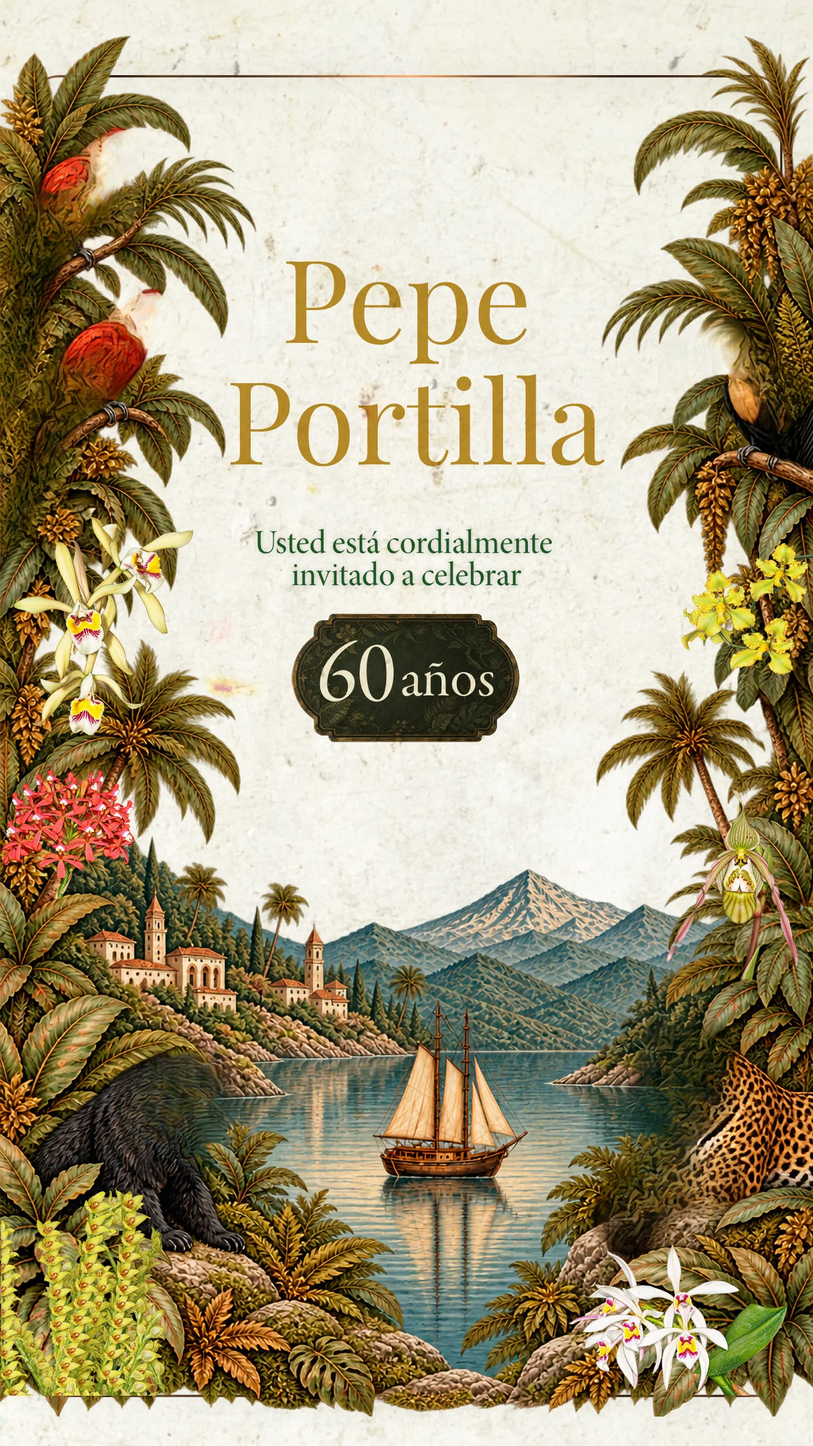
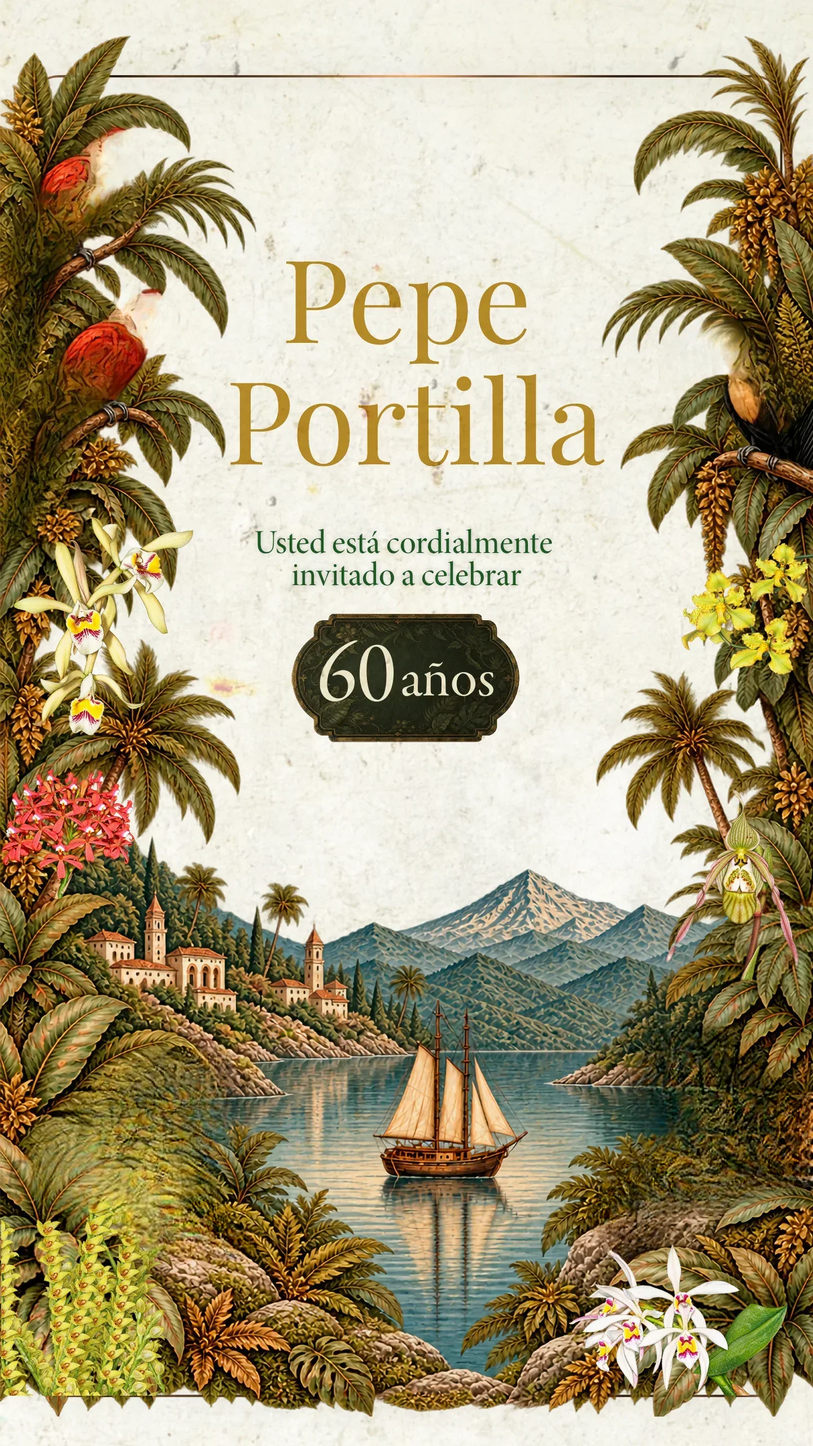
Add files via upload

Changed region(s): [[0.7188, 0.6875, 1.0, 0.875], [0.0312, 0.7188, 0.3125, 0.875]]

diff --git a/js/videoanimales.js b/js/videoanimales.js
@@ -1,0 +1,96 @@
+/* =====================================================================
+   OSO Y JAGUAR QUE CAMINAN
+   Cuadros de animación (sacados de un video, con fondo transparente)
+   guardados en hojas de 10 cuadros en img/anim/mov/. Se dibujan en un
+   lienzo sobre la portada: el oso sale caminando por la izquierda y se
+   echa; el jaguar entra por la derecha y se recuesta. Después quedan
+   respirando suavemente. Ajustes en js/movimiento.js.
+   ===================================================================== */
+(function () {
+  var CFG = window.MOVIMIENTO || {};
+  var reducido = window.UTIL && window.UTIL.reducido();
+  var PW = 1440, PH = 2560;                     /* tamaño de la página en el diseño */
+  var DPR = Math.min(window.devicePixelRatio || 1, 2);
+  var ORDEN = ["oso", "jaguar"];
+
+  function ease(t) { t = Math.max(0, Math.min(1, t)); return 1 - Math.pow(1 - t, 3); }
+
+  /* ---------- carga de las hojas de cuadros ---------- */
+  var hojas = {}, listos = 0, total = 0, alListo = [];
+  function cargar() {
+    ORDEN.forEach(function (k) {
+      var c = CFG[k]; if (!c) return;
+      hojas[k] = c.sheets.map(function (f) {
+        total++;
+        var im = new Image(); im.decoding = "async";
+        im.onload = im.onerror = function () { listos++; if (listos === total) alListo.splice(0).forEach(function (f) { f(); }); };
+        im.src = "img/anim/mov/" + f;
+        return im;
+      });
+    });
+  }
+  function cuandoListo(f) { if (total && listos === total) f(); else alListo.push(f); }
+
+  /* ---------- un animal ---------- */
+  function posicion(k, i) {
+    /* dónde va (en px de página) la caja del cuadro i, incluido el desplazamiento de entrada */
+    var c = CFG[k], s = c.esc;
+    var x = c.pagina[0] + (c.caja[0] - c.ancla[0]) * s;
+    var y = c.pagina[1] + (c.caja[1] - c.ancla[1]) * s;
+    var u = ease(i / c.entrada.hasta);
+    x += c.entrada.dx * (1 - u);
+    return { x: x, y: y, w: (c.caja[2] - c.caja[0]) * s, h: (c.caja[3] - c.caja[1]) * s };
+  }
+
+  function Escena(canvas) {
+    this.c = canvas; this.ctx = canvas.getContext("2d"); this.t0 = 0; this.activa = false; this.raf = 0;
+  }
+  Escena.prototype.ajustar = function () {
+    var r = this.c.getBoundingClientRect();
+    var w = Math.max(1, Math.round(r.width * DPR)), h = Math.max(1, Math.round(r.height * DPR));
+    if (this.c.width !== w || this.c.height !== h) { this.c.width = w; this.c.height = h; }
+    this.k = w / PW;                            /* px de lienzo por px de página */
+  };
+  Escena.prototype.dibujar = function (ahora) {
+    var ctx = this.ctx, t = (ahora - this.t0) / 1000, k = this.k;
+    ctx.clearRect(0, 0, this.c.width, this.c.height);
+    ctx.imageSmoothingEnabled = true; ctx.imageSmoothingQuality = "high";
+    for (var n = 0; n < ORDEN.length; n++) {
+      var nombre = ORDEN[n], c = CFG[nombre]; if (!c || !hojas[nombre]) continue;
+      var tt = t - c.retardo; if (tt < 0 && !reducido) continue;
+      var i = reducido ? c.n - 1 : Math.min(c.n - 1, Math.floor(tt * c.fps));
+      var hoja = hojas[nombre][Math.floor(i / c.per)], j = i % c.per;
+      if (!hoja || !hoja.complete || !hoja.naturalWidth) continue;
+      var p = posicion(nombre, i);
+      /* al terminar de caminar, respira (el pecho sube y baja apenas) */
+      var fin = (tt * c.fps) - (c.n - 1), resp = fin > 0 ? 1 + 0.008 * Math.sin(fin / c.fps * 2 * Math.PI / 3.2) * Math.min(1, fin / c.fps) : 1;
+      var h = p.h * resp;
+      ctx.drawImage(hoja, 0, j * c.h, c.w, c.h, p.x * k, (p.y + p.h - h) * k, p.w * k, h * k);
+    }
+  };
+  Escena.prototype.bucle = function () {
+    var self = this;
+    function f(ahora) { if (!self.activa) return; self.dibujar(ahora); self.raf = requestAnimationFrame(f); }
+    this.raf = requestAnimationFrame(f);
+  };
+  Escena.prototype.empezar = function () {
+    var self = this;
+    this.ajustar(); this.activa = true;
+    cuandoListo(function () { if (!self.activa) return; self.t0 = performance.now(); cancelAnimationFrame(self.raf); self.bucle(); });
+  };
+  Escena.prototype.parar = function () {
+    this.activa = false; cancelAnimationFrame(this.raf);
+  };
+
+  var escenas = [];
+  Array.prototype.forEach.call(document.querySelectorAll("canvas.caminan"), function (c) {
+    var e = new Escena(c); c._mov = e; escenas.push(e);
+  });
+  window.addEventListener("resize", function () { escenas.forEach(function (e) { e.ajustar(); }); });
+  cargar();
+
+  window.CAMINAN = {
+    entrar: function (hoja) { var c = hoja.querySelector("canvas.caminan"); if (c && c._mov) c._mov.empezar(); },
+    salir: function (hoja) { var c = hoja.querySelector("canvas.caminan"); if (c && c._mov) setTimeout(function () { c._mov.parar(); }, 650); }
+  };
+})();

diff --git a/js/animales.js b/js/animales.js
@@ -253,9 +253,8 @@
     selva: [
       { malla: "guac1", mover: guacamayo({ retardo: .2, semilla: 0.4 }) },
       { malla: "guac2", mover: guacamayo({ retardo: .7, semilla: 1.9 }) },
-      { malla: "tucan", mover: tucanPosado({ retardo: .5, semilla: 2.7, dir: 1 }) },
-      { malla: "oso", mover: oso },
-      { malla: "jaguar", mover: jaguar }
+      { malla: "tucan", mover: tucanPosado({ retardo: .5, semilla: 2.7, dir: 1 }) }
+      /* el oso y el jaguar caminan con cuadros de animación: js/videoanimales.js */
     ],
     aves: [
       { malla: "colibri", mover: colibri },
@@ -293,12 +292,14 @@
   /* API usada por index.js */
   window.ANIMALES = {
     entrar: function (hoja) {
+      if (window.CAMINAN) CAMINAN.entrar(hoja);
       var c = hoja.querySelector("canvas.selva"); if (!c || !c._escena || !c._escena.gl) return;
       var e = c._escena; e.ajustar(); e.activa = true; e.t0 = performance.now();
       e.animales.forEach(function (a) { a.fase = reducido ? "reposo" : "entra"; a.tFase = 0; });
       arrancar();
     },
     salir: function (hoja) {
+      if (window.CAMINAN) CAMINAN.salir(hoja);
       var c = hoja.querySelector("canvas.selva"); if (!c || !c._escena || !c._escena.gl) return;
       var e = c._escena;
       setTimeout(function () { e.activa = false; e.animales.forEach(function (a) { a.fase = "fuera"; }); }, 700);

diff --git a/index.html b/index.html
@@ -39,6 +39,7 @@
       <img class="base" src="img/03_portada.webp" width="1440" height="2560"
            alt="Pepe Portilla. Usted está cordialmente invitado a celebrar 60 años.">
       <canvas class="selva" data-escena="selva" aria-hidden="true"></canvas>
+      <canvas class="caminan" aria-hidden="true"></canvas>
       <img class="frente" src="img/anim/p03_frente.webp" alt="" decoding="async" style="left:4.722%;top:82.305%;width:72.986%;height:5.859%">
     </section>
 
@@ -153,6 +154,8 @@
   <script src="js/details.js"></script>
   <script src="js/mallas.js"></script>
   <script src="js/animales.js"></script>
+  <script src="js/movimiento.js"></script>
+  <script src="js/videoanimales.js"></script>
   <script src="js/index.js"></script>
 </body>
 </html>

diff --git a/js/movimiento.js b/js/movimiento.js
@@ -1,0 +1,1 @@
+window.MOVIMIENTO={"oso": {"sheets": ["oso_00.webp", "oso_01.webp", "oso_02.webp", "oso_03.webp", "oso_04.webp", "oso_05.webp", "oso_06.webp", "oso_07.webp", "oso_08.webp", "oso_09.webp"], "n": 100, "per": 10, "w": 507, "h": 332, "fps": 24, "retardo": 0.3, "caja": [87, 199, 684, 589], "esc": 1.0, "ancla": [89, 586], "pagina": [-135, 2200], "entrada": {"hasta": 15, "dx": -180}}, "jaguar": {"sheets": ["jaguar_00.webp", "jaguar_01.webp", "jaguar_02.webp", "jaguar_03.webp", "jaguar_04.webp"], "n": 41, "per": 10, "w": 544, "h": 293, "fps": 18, "retardo": 0.9, "caja": [640, 221, 1280, 566], "esc": 1.0, "ancla": [708, 565], "pagina": [980, 2160], "entrada": {"hasta": 20, "dx": 560}}};

diff --git a/css/styles.css b/css/styles.css
@@ -149,6 +149,7 @@ a, button { touch-action: manipulation; }
    ============================================================ */
 canvas.selva { position: absolute; inset: 0; width: 100%; height: 100%; z-index: 3; pointer-events: none; }
 canvas.selva.sin-webgl { display: none; }
+canvas.caminan { position: absolute; inset: 0; width: 100%; height: 100%; z-index: 3; pointer-events: none; }
 .frente { position: absolute; z-index: 4; height: auto; pointer-events: none; }
 
 /* Estrella de la agenda: baja por la línea y vuelve a aparecer arriba */

diff --git a/README.md b/README.md
@@ -15,6 +15,7 @@ Sitio web estático (sin servidor, sin Claude): se publica con GitHub Pages.
 | `img/00_portada.webp` | Primer cuadro del video (la portada cerrada). Debe verse igual que el inicio del video | Junto con el video |
 | `img/03_…09_*.webp` | Las 7 páginas de la invitación en HD (1440×2560, del PDF del diseñador) | Solo si cambia el diseño (fechas, horas, agenda…) |
 | `img/anim/`, `js/mallas.js`, `js/animales.js` | Los animales (extraídos del PDF del diseñador) y su animación: cada uno es una figura montada en una malla con "huesos" (cuello, alas, patas) que se dobla suavemente. Las páginas `03_portada` y `07_confirmacion` llevan el fondo sin los animales | No. Si cambia el diseño de esas páginas, avisar: hay que volver a separar las figuras |
+| `img/anim/mov/`, `js/movimiento.js`, `js/videoanimales.js` | El oso y el jaguar que caminan: cuadros de animación (sacados de un video y recortados) en hojas de 10 cuadros. En `movimiento.js` se ajusta la velocidad (`fps`), el retraso de entrada (`retardo`) y la posición final (`pagina`) | Solo para ajustar tiempos o posición |
 | `img/m*.png`, `img/p05_estrella.png` | Máscaras para los botones agrandados y la estrella de la agenda | No. Si se cambia una página, avisar: dependen de la posición de cada elemento |
 | `img/01_…, 02_…` | Imágenes de la portada anterior (ya no se usan) | Se pueden borrar |
 | `img/compartir.jpg` | Imagen que sale al compartir el link en WhatsApp (1200×630) | Si cambia el diseño |
